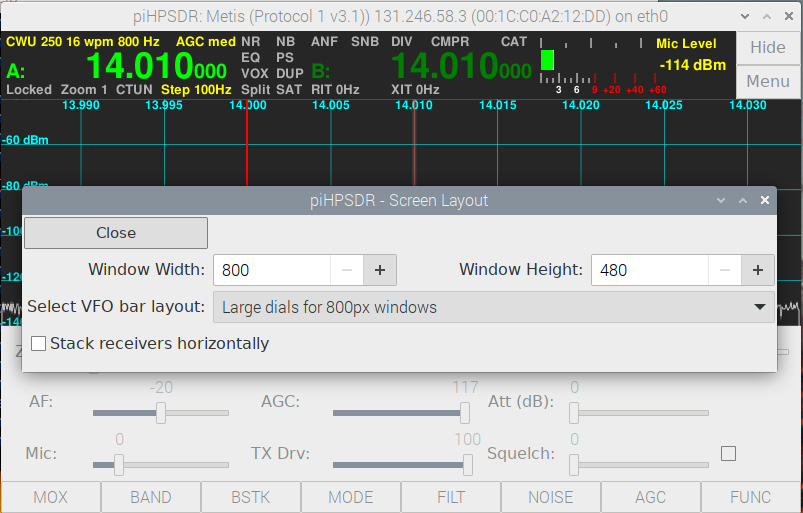
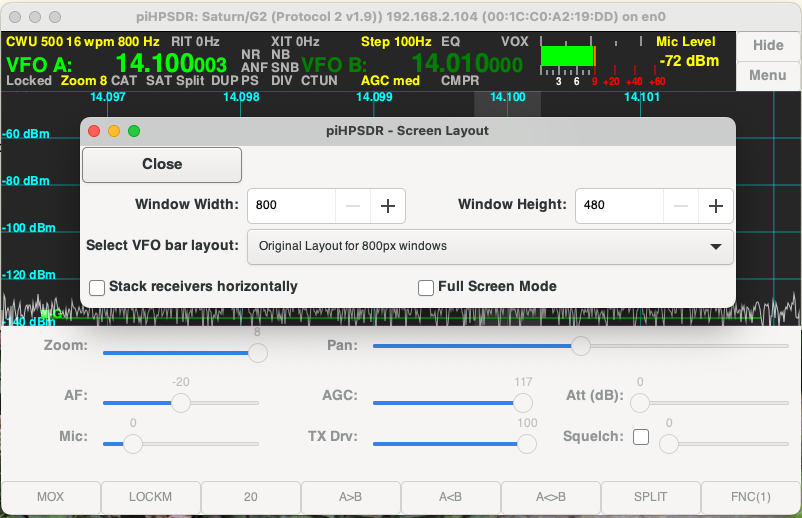
Continued manual, finished TX menu.

diff --git a/release/LatexManual/piHPSDR-Manual.tex b/release/LatexManual/piHPSDR-Manual.tex
@@ -1087,9 +1087,16 @@ via the main menu and the \bltt{Screen} button and is shown in Fig. \ref{fig:Scr
 The window width and height can be chosen with the spin buttons shown. The minimum
 values for width and height are 800 and 480, the maximum values are determined by
 the resolution of the monitor. Changes made in the spin buttons become effective
-immediately.
-The pop-down menu \rett{Select VFO bar layout} lets you choose the layout of the VFO
-bar. In Fig. \ref{fig:VFObarChoice} the pre-defined layouts are shown:
+immediately. If piHPSDR is in full screen mode (see below), which implies that the
+width and height equal the screen dimensions, and you descrease either width or
+height, the piHPSDR window auomatically switches from full screen into window mode.
+
+If the window width is decreased such that the VFO bar chosen does no longer fit,
+the first one in the list that does fit is automatically selected, and the
+current choice printed in the 
+ pop-down menu \rett{Select VFO bar layout} is updated. This menu lets you choose
+ the layout of the VFO
+bar. In Fig. \ref{fig:VFObarChoice} the pre-defined layouts are shown.
 
 \begin{figure}[h!]
 \center
@@ -1103,14 +1110,23 @@ two small ones can be used with a screen only 800 pixels wide. The VFO bar shown
 at the bottom of Fig. \ref{fig:VFObarChoice} represents the original piHPSDR layout,
 the second one from the bottom has larger characters for the VFO dials and therefore
 a few more pixels height. The VFO bar has been described in detail in chapter
-\ref{sec:VFObar}.
+\ref{sec:VFObar}. If you choose a VFO bar layout that is wider than the current
+window width allows, the window with is automatically adjusted.
 
-The check box \rett{Stack receivers horizontally}, if checked, puts the panels
+\rett{Stack receivers horizontally}. If checked, this puts the panels
 of the two receivers (if two receivers are used) side-by-side instead of on top
 of each other.
 
-If the window width is decreased such that the VFO bar chosen does no longer fit,
-the first one in the list that does fit is automatically selected. 
+\rett{Full Screen Mode}. If you check this option, the window width and height is
+set to the screen width and height, and then the piHPSDR window is put into
+,,full screen mode''. This means that there is no piHPSDR window title bar and
+no OS menu bar, and the piHPSDR window area covers the whole screen. For small screens,
+this gives some extra space to the piHPSDR window, since the maximum window
+dimensions (such that the whole window can be displayed) are smaller than the screen
+size, typically, the height is about 30 pixels less, and the width about 10 pixels less
+than the screen size. If piHPDR is is full screen mode and you \textit{uncheck} this
+box, this gives you a pihpsdr window with the size of the screen, which is slightly
+too large to be displayed completely on the screen.
 
 \section{The \texttt{Display} Menu}
 
@@ -1200,6 +1216,13 @@ happens regularly, it is no reason to worry.
 
 \section{The \texttt{Meter} menu}
 
+\begin{figure}[h]
+\center
+\includegraphics[width=12cm]{MeterMenu.png}
+\caption{The \bltt{Meter} menu.}
+\label{fig:Meter}
+\end{figure}
+
 The \bltt{Meter} can either be opened simply by clicking in the meter
 area, or through the main menu. Only few choices can be made here.
 
@@ -1219,12 +1242,6 @@ display less ,,nervous'' a moving average with a rather long time constant
 (about 0.5 sec) has been implemented on top of both the Peak and Average
 S-meter readings.
 
-\begin{figure}[h]
-\center
-\includegraphics[width=12cm]{MeterMenu.png}
-\caption{The \bltt{Meter} menu.}
-\label{fig:Meter}
-\end{figure}
 
 \rett{TX ALC reading:} Here, the possible values are Peak, Average, and
 ALC gain. For a two-tone signal with maximum audio amplitude the Average
@@ -1292,6 +1309,12 @@ of the main menu. These are all VFO-related menus.
 
 \section{The \texttt{VFO}  menu}
 
+\begin{figure}[h]
+\includegraphics[width=12cm]{VFOmenu.png}
+\caption{The \bltt{VFO} menu.}
+\label{fig:VFOmenu}
+\end{figure}
+
 The \bltt{VFO} menu can be used for direct frequency entry and to
 enable/disable some frequently used options. If the menu is opened,
 it refers either to VFO-A or VFO-B. If opened via the main menu,
@@ -1309,11 +1332,6 @@ entered so far is not only shown in the upper part of the
 \bltt{VFO} menu, but also (in yellow digits) in the VFO bar.
 The other buttons of the ,,keypad'' have a special meaning:
 
-\begin{figure}[h]
-\includegraphics[width=12cm]{VFOmenu.png}
-\caption{The \bltt{VFO} menu.}
-\label{fig:VFOmenu}
-\end{figure}
 
 
 \rett{BS} Backspace. This cancels the last entered character
@@ -1381,12 +1399,6 @@ If you hit the highlighted button, you will not change the band (since you hit t
 button of the current band) but instead will cycle through the band stack of that band
 (see the \bltt{BndStack} menu).
 
-\begin{figure}[h]
-\center
-\includegraphics[width=12cm]{BandstackMenu.png}
-\caption{The \bltt{BndStack} (Bandstack) menu.}
-\label{fig:BandstackMenu}
-\end{figure}
 
 Note that the band menu may look different from the one shown here: there are many bands
 (24 bands plus up to 8 transverter bands) defined in piHPSDR. However, the bands that
@@ -1398,9 +1410,16 @@ will end up in the General band. If you have defined transverter bands (see the
 \bltt{XVTR} menu) they will be shown, with the title you have chosen, in the
 \bltt{Band} menu.
 
+
 \section{The  \texttt{BndStack} (Bandstack) menu}
 
- 
+ \begin{figure}[h!]
+\center
+\includegraphics[width=12cm]{BandstackMenu.png}
+\caption{The \bltt{BndStack} (Bandstack) menu.}
+\label{fig:BandstackMenu}
+\end{figure}
+
 For each band, the band stack is collection of frequency/mode pairs. The idea is that
 you can have preferred or recently visited frequencies to which you can easily come back.
 If you open the \bltt{BndStack} menu (Fig. \ref{fig:BandstackMenu}), you see all these
@@ -1412,6 +1431,8 @@ is stored in the highlighted band stack entry, and then the frequency/mode of th
 entry becomes effective. Note that bandstack entries are only changed if the active
 receiver is controlled by VFO-A. 
 
+
+\section{The \texttt{Mode} menu}
 \begin{figure}[h]
 \center
 \includegraphics[width=12cm]{ModeMenu.png}
@@ -1419,7 +1440,6 @@ receiver is controlled by VFO-A.
 \label{fig:ModeMenu}
 \end{figure}
 
-\section{The \texttt{Mode} menu}
 The \bltt{Mode} menu lets you change the mode of the active receiver, so you can switch,
 say, from LSB to CWU or DIGU. The mode menu simply lists the available modes, the current
 one is highlighted (Fig. \ref{fig:ModeMenu}).
@@ -1518,7 +1538,7 @@ a 1.0k filter for DIGU/DIGL passes audio frequencies between 1000 and 2000 Hz.
 \begin{figure}[h]
 \center
 \includegraphics[width=12cm]{FilterMenuCW.png}
-\caption{The \bltt{Filter} menu (CW, AM, etc.).}
+\caption{The \bltt{Filter} menu for CWL/CWU.}
 \label{fig:FilterMenuCW}
 \end{figure}
 
@@ -1681,17 +1701,124 @@ This is what \bltt{Diversity} is all about.
 \chapter{The Main Menu: TX-related menus}
 
 \section{The \texttt{TX} Menu}
-\begin{figure}[h]
+\begin{figure}[h!]
 \center
 \includegraphics[width=12cm]{TXMenu.png}
 \caption{The \bltt{TX} menu.}
 \label{fig:TXMenu}
 \end{figure}
 
+The \bltt{TX} menu can be opened from the main menu, or just by a secondary mouse click
+into the TX panadapter (while transmitting). The menu is shown in Fig. \ref{fig:TXMenu}.
+
+
+\rett{Local Microphone}. If this box is checked, the TX audio samples come from a soundcard
+attached to the host computer, or from a virtual audio cable. The sound device can be
+selected from the pop-down menu to the right. This menu is intentionally very broad since
+audio device names can be very long. This check box, and the pop-down menu, is absent if
+there are no output sound devices available.
+
+\textbf{Note:} If the radio has the possiblity
+to connect a microphone, and if PTT comes from the radio, the radio microphone samples
+and the local (sound device) microphone samples are mixed (added). This is very convenient
+if one does SSB with a microphone attached to the radio, and digital modes with a
+local sound device or virtual audio cable: when doing SSB, the local sound device normally
+produces no audio, and while pressing PTT at the microphone, you can work SSB normally.
+So you can go from digital mode to SSB without the need to change the microphone setup
+in the TX menu.
+
+\rett{Compression (dB):} With this box the TX compressor can be enabled/disabled.
+The compression level (0-20 dB) can be chosen in the spin button to the right.
+
+\textbf{Note:} The compressor on/off flag, as well as the compression level, is
+,,stored with the mode''. So it is possible to have the compressor enabled for SSB
+(LSB/USB) 
+and disabled for digi modes (DIGL/DIGU), and when switching modes, the compressor
+settings for the new mode are automatically restored.
+
+\rett{FM PreEmp/ALC}. When transmitting FM, the audio input signals are ,,emphasized''.
+This means that from 300 to 3000 Hz (the usual range of audio frequencies in amateur
+radio FM), there is a 6 dB per octave (20 dB per decate) that leads to a 20 dB damping
+of an input signal at 300 Hz (and no damping ad 3000 Hz).
+ This manipulation can be done before or after the TX ALC.
+If it is done \textit{after} the TX ALC, the transmitter cannot be over-driven but you also cannot
+drive the transmitter to full power with a low frequency signal. Many operators consider
+the resulting signal ,,too thin'' and prefer that the pre-emphasis is done \textit{before}
+TX ALC, together with a general overall amplification of the audio signal. These two
+possibilities can be selected with this check box. If checked, pre-emphasize takes place
+\textit{before} ALC. This makes the FM signal ,,thicker'' because the TX audio input
+is boosted by 15 dB when doing FM. If the checkbox is not checked, pre-emphasize takes
+place \textit{after} ALC, which makes the 15 dB audio boost ineffective because it is
+,,corrected'' by the ALC.  So if you want more ,,punch'' in FM, check this box, but
+be aware that strong high-frequency audio input signals may lead to TX over drive. With
+normal speech this is not likely to happen because a large part of its power is in the
+low-frequency region.
+
+\rett{Radio Mic:} This text, and the pop-down menu to its right, only occurs if a microphone can
+be connected to the radio. The pop-down menu lets you choose between \rett{Mic In} which means
+that a microphone can be connected to the microphone input jack, \rett{Mic Boost}, which
+additionally switches on a hardware 20 dB mic amp, and \rett{Line In} which means that the
+"Line In" jack of the radio is used for the audio samples transferred from the radio to the
+host computer. This is part of the HPSDR protocol, it may well happen that your radio has a
+microphone jack but no line-in input. The optional 20 dB preamp may be necessary when connecting
+a dynamic microphone whose input level (few mV) is considerably lower that that of a 
+condensor (electret) microphone, or a dynamic microphone with built-in preamp.
+
+\rett{TX Filter low:} With this spin button you can set the low cut of the TX filter. The
+frequency refers to the audio domain.
+
+\rett{TX Filter high:} With this spin button you can set the high cut of the TX filter. The
+frequency refers to the audio domain.
+
+\rett{Use RX Filter} If this check box is enabled, the TX filter low/high cuts are ignored,
+and the filter edges of the current RX filter are used instead.
+
+\rett{Panadapter Low:} This spin button sets the lower edge (in dBm) of the TX panadapter.
+
+\rett{Panadapter High:} This spin button sets the upper edge (in dBm) of the TX panadapter.
+
+\rett{Panadapter Step:} This spin button determines how many horizontal lines are drawn on the
+TX panadapter. If set to 10, for example, there will be a horizontal line for every multiple
+of 10 dBm.
+
+\rett{AM carrier level:} This sets the AM carrier level for the AM modulator. If set to zero, there is no carrier and the
+signal is a DSB signal. A reasonable value is 0.5 which leads to 100\% modulation. Values larger than
+0.5 have less than 100\% modulation. This means too much power goes into the carrier.
+
+\rett{Tune use Drive} If this box is checked, TUNEing will be done with the power that corresponds to the
+current position of the drive slider, and the tune drive level is ignored.
+
+\rett{Tune Drive Level} The value that can be adjusted with this spin box is the virtual position of the drive
+slider while TUNEing. This value is ignored if the \rett{Tune use Drive} box is checked.
+
+\rett{SWR protection} If this box is checked, a very simple SWR protection is enabled. If the SWR exceeds the
+threshold value (see next point), the drive slider is set to zero. The SWR protection is disabled
+while TUNEing.
+
+\rett{SWR alarm at} The spin button to the right determines the SWR threshold. If the SWR is beyond the threshold,
+the SWR reported in the meter turns red. If SWR protection is enabled, the drive slider is set to zero if the
+SWR exceeds the threshold.
+
+\rett{CTCSS Enable} (FM only!) This checkbox enables/disables CTCSS (continuous tone coded squelch system). If enabled, a low-frequency
+tone is transmitted together with the normal TX audio. This can be used to trigger repeaters, or any other function implemented
+on the other side. The frequency itself can be chosen with the following menu point:
+
+\rett{CTCSS Frequency} This pop-down menu lets you choose the CTCSS frequency. This choice has no effect if CTCSS is disabled.
+The frequency list includes 38 standard TIA/EIA-603-D CTCSS frequencies between 67.0 and 250.3 Hz.
+
+\rett{Mac Drive level for DIGU/DIGL} This spin button restricts the range of the drive slider from 0 to the chosen value
+for the DIGU and DIGL modes. If the value is 100, this has no effect. The primary use of this menu point is PA protection,
+since many digital modes (unlike SSB voice) are constantly transmitting at full power.
+
+
 \section{The \texttt{PA} Menu}
-\begin{center}
+
+\begin{figure}
+\center
 \includegraphics[width=12cm]{PAMenuCalibrate.png}
-\end{center}
+\caption{The PA menu, PA calibration screen}
+\label{fig:PAMenuCalibrate}
+\end{figure}
 
 \begin{center}
 \includegraphics[width=12cm]{PAMenuWatt.png}
